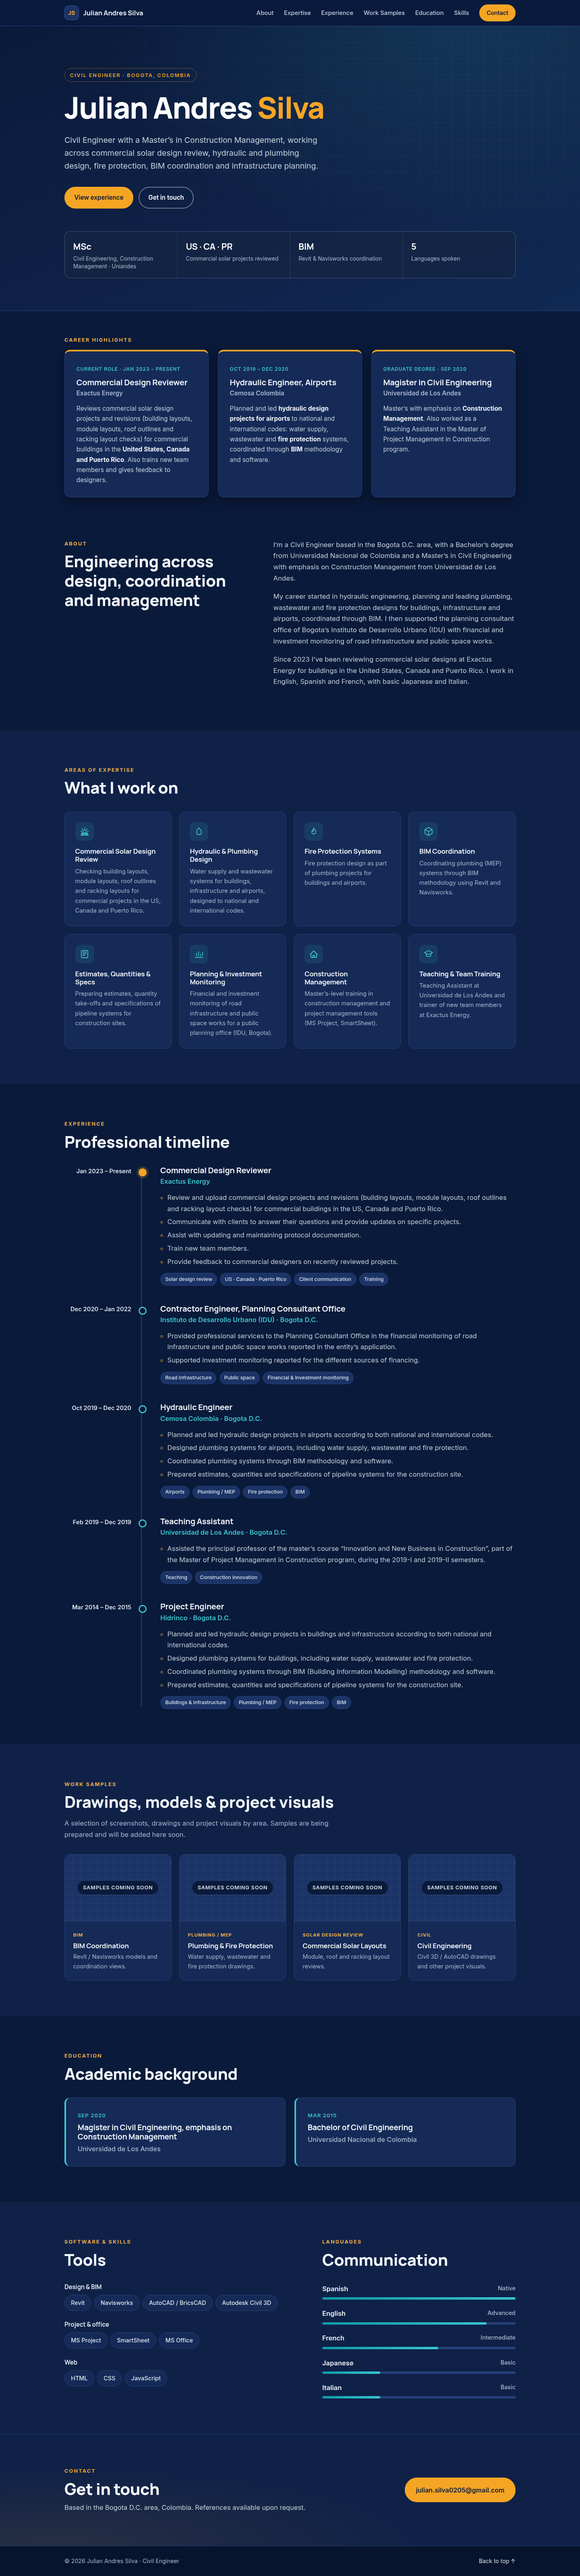
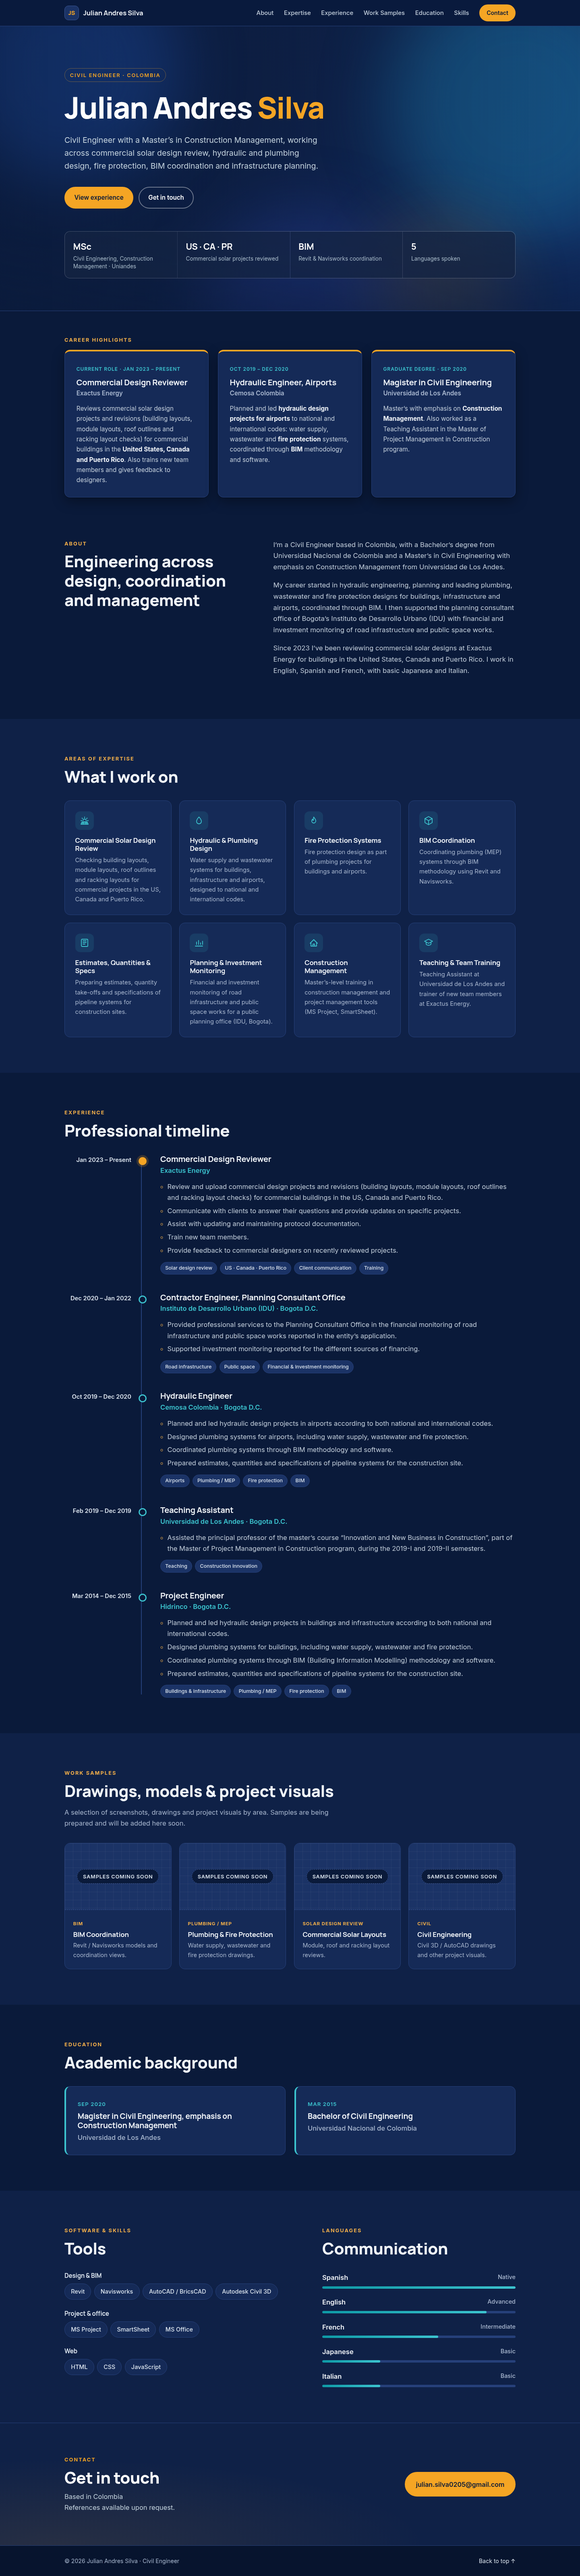
Hero: animated navy gradient with drifting blobs; location shown as Colombia only

diff --git a/index.html b/index.html
@@ -4,9 +4,9 @@
   <meta charset="utf-8">
   <meta name="viewport" content="width=device-width, initial-scale=1">
   <title>Julian Andres Silva | Civil Engineer</title>
-  <meta name="description" content="Julian Andres Silva, Civil Engineer based in Bogota, Colombia. Commercial solar design review, hydraulic, plumbing and fire protection design, BIM coordination and construction management.">
+  <meta name="description" content="Julian Andres Silva, Civil Engineer based in Colombia. Commercial solar design review, hydraulic, plumbing and fire protection design, BIM coordination and construction management.">
   <meta property="og:title" content="Julian Andres Silva | Civil Engineer">
-  <meta property="og:description" content="Civil Engineer (MSc, Construction Management) based in Bogota, Colombia. Solar design review, hydraulic, plumbing and fire protection design, BIM coordination.">
+  <meta property="og:description" content="Civil Engineer (MSc, Construction Management) based in Colombia. Solar design review, hydraulic, plumbing and fire protection design, BIM coordination.">
   <meta property="og:type" content="website">
   <link rel="icon" href="favicon.svg" type="image/svg+xml">
   <link rel="preconnect" href="https://fonts.googleapis.com">
@@ -41,9 +41,15 @@
   <main id="main">
     <!-- ================= HERO ================= -->
     <section class="hero">
-      <div class="hero__grid-bg" aria-hidden="true"></div>
+      <!-- Animated hero background: soft drifting blobs (pure CSS, see .hero__bg in styles.css) -->
+      <div class="hero__bg" aria-hidden="true">
+        <span class="blob blob--1"></span>
+        <span class="blob blob--2"></span>
+        <span class="blob blob--3"></span>
+        <span class="blob blob--amber"></span>
+      </div>
       <div class="container hero__inner">
-        <p class="eyebrow">Civil Engineer · Bogota, Colombia</p>
+        <p class="eyebrow">Civil Engineer · Colombia</p>
         <h1 class="hero__title">Julian Andres <span class="accent">Silva</span></h1>
         <p class="hero__lead">
           Civil Engineer with a Master’s in Construction Management, working across
@@ -98,7 +104,7 @@
           <h2 class="section__title">Engineering across design, coordination and management</h2>
         </div>
         <div class="about__text">
-          <p>I’m a Civil Engineer based in the Bogota D.C. area, with a Bachelor’s degree from Universidad Nacional de Colombia and a Master’s in Civil Engineering with emphasis on Construction Management from Universidad de Los Andes.</p>
+          <p>I’m a Civil Engineer based in Colombia, with a Bachelor’s degree from Universidad Nacional de Colombia and a Master’s in Civil Engineering with emphasis on Construction Management from Universidad de Los Andes.</p>
           <p>My career started in hydraulic engineering, planning and leading plumbing, wastewater and fire protection designs for buildings, infrastructure and airports, coordinated through BIM. I then supported the planning consultant office of Bogota’s Instituto de Desarrollo Urbano (IDU) with financial and investment monitoring of road infrastructure and public space works.</p>
           <p>Since 2023 I’ve been reviewing commercial solar designs at Exactus Energy for buildings in the United States, Canada and Puerto Rico. I work in English, Spanish and French, with basic Japanese and Italian.</p>
         </div>
@@ -387,7 +393,8 @@
         <div>
           <p class="section__kicker section__kicker--light">Contact</p>
           <h2 class="contact__title">Get in touch</h2>
-          <p class="contact__lead">Based in the Bogota D.C. area, Colombia. References available upon request.</p>
+          <p class="contact__lead">Based in Colombia</p>
+          <p class="contact__lead">References available upon request.</p>
         </div>
         <div class="contact__actions">
           <a class="btn btn--accent" href="mailto:julian.silva0205@gmail.com">julian.silva0205@gmail.com</a>

diff --git a/styles.css b/styles.css
@@ -39,7 +39,21 @@ h1,h2,h3{font-family:var(--display);color:var(--ink);line-height:1.2;letter-spac
 
 /* hero */
 .hero{position:relative;overflow:hidden;background:radial-gradient(ellipse at 80% 0%,rgba(60,196,207,.14),transparent 55%),linear-gradient(160deg,#0a1a3a 0%,#0f2147 60%,#102a55 100%);color:#dbe6ee;border-bottom:1px solid var(--line);padding:6.5rem 0 5rem}
-.hero__grid-bg{position:absolute;inset:0;background-image:linear-gradient(rgba(255,255,255,.05) 1px,transparent 1px),linear-gradient(90deg,rgba(255,255,255,.05) 1px,transparent 1px);background-size:40px 40px;mask-image:radial-gradient(ellipse at 70% 30%,#000 20%,transparent 75%)}
+/* hero animated background: blurred drifting blobs + slow gradient shift */
+.hero{isolation:isolate}
+.hero__bg{position:absolute;inset:0;z-index:-1;overflow:hidden;background:linear-gradient(120deg,#0a1a3a,#0f2147,#12306a,#0c1f45,#0a1a3a);background-size:300% 300%;animation:heroGradient 28s ease-in-out infinite}
+.hero__bg::after{content:"";position:absolute;inset:0;background:linear-gradient(90deg,rgba(10,26,58,.55) 0%,rgba(10,26,58,.25) 55%,rgba(10,26,58,0) 100%),linear-gradient(180deg,transparent 70%,rgba(10,26,58,.5))}
+.blob{position:absolute;border-radius:50%;filter:blur(80px);will-change:transform;opacity:.7}
+.blob--1{width:560px;height:560px;left:-120px;top:-180px;background:#1f4fa8;animation:drift1 24s ease-in-out infinite alternate}
+.blob--2{width:620px;height:620px;right:-160px;top:-120px;background:#1a6f9e;opacity:.55;animation:drift2 30s ease-in-out infinite alternate}
+.blob--3{width:500px;height:500px;left:35%;bottom:-260px;background:#2a3f9a;opacity:.6;animation:drift3 26s ease-in-out infinite alternate}
+.blob--amber{width:340px;height:340px;right:12%;bottom:-120px;background:#f5a524;opacity:.22;filter:blur(90px);animation:drift4 20s ease-in-out infinite alternate}
+@keyframes heroGradient{0%,100%{background-position:0% 50%}50%{background-position:100% 50%}}
+@keyframes drift1{from{transform:translate3d(0,0,0) scale(1)}to{transform:translate3d(180px,120px,0) scale(1.15)}}
+@keyframes drift2{from{transform:translate3d(0,0,0) scale(1.05)}to{transform:translate3d(-200px,140px,0) scale(.9)}}
+@keyframes drift3{from{transform:translate3d(0,0,0) scale(1)}to{transform:translate3d(-160px,-120px,0) scale(1.2)}}
+@keyframes drift4{from{transform:translate3d(0,0,0);opacity:.18}to{transform:translate3d(-220px,-80px,0);opacity:.3}}
+@media (prefers-reduced-motion:reduce){.hero__bg,.blob{animation:none!important}}
 .hero__inner{position:relative}
 .eyebrow{display:inline-block;font-size:.8rem;font-weight:600;letter-spacing:.14em;text-transform:uppercase;color:var(--accent);margin-bottom:1.2rem;padding:.35rem .8rem;border:1px solid rgba(245,165,36,.4);border-radius:999px}
 .hero__title{color:#fff;font-size:clamp(2.6rem,6.5vw,4.6rem);font-weight:800;letter-spacing:-.025em;margin-bottom:1.25rem}
